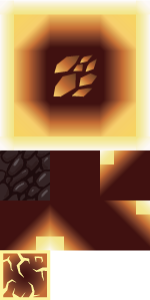
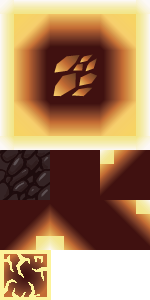
added animations

diff --git a/src/scenes/Play.js b/src/scenes/Play.js
@@ -22,10 +22,17 @@ class Play extends Phaser.Scene {
         this.load.image('greenKey', 'greenKey.png');
         this.load.image('blueKey', 'blueKey.png');
         this.load.image('powerUp', 'powerUp.png');
+        this.load.spritesheet('charRun', 'characterRun.png', {
+            frameWidth: 600, frameHeight: 600, startFrame: 0, endFrame: 7
+        });
+        this.load.spritesheet('charTower', 'characterTower.png', {
+            frameWidth: 600, frameHeight: 600, startFrame: 0, endFrame: 5
+        });
 
         //load the json images 
         this.load.image('tiles', 'rockSheetNew.png');
         this.load.tilemapTiledJSON("tilemapJSON", "levelOneNew.json");
+
 
     }
 
@@ -53,6 +60,7 @@ class Play extends Phaser.Scene {
         this.addBackgroundTileMap();
         this.addCrackedTiles();
         this.addCharacter();
+        this.addAnimation();
         this.addSprites();
         this.addDoor();
         this.addInstructions();
@@ -99,6 +107,18 @@ class Play extends Phaser.Scene {
         border.body.checkCollision.left = true;
         border.body.checkCollision.right = true;
         return border;
+    }
+    addAnimation(){
+        this.anims.create({
+            key: 'run',
+            frames: this.anims.generateFrameNumbers('charRun', { start: 0, end: 7, first: 0 }),
+            frameRate: 12
+        });
+        this.anims.create({
+            key: 'build',
+            frames: this.anims.generateFrameNumbers('charTower', { start: 0, end: 5, first: 0 }),
+            frameRate: 12
+        });
     }
 
     addBackgroundTileMap() {
@@ -386,6 +406,10 @@ class Play extends Phaser.Scene {
                 this.towers.clear(true,true);
                 this.currentTowers=0;
             }
+            
+            if(playerWalking){
+                this.player.anims.play('run', true);
+            }
         }
 
     }
@@ -443,6 +467,7 @@ class Play extends Phaser.Scene {
 
     buildTower() {
         if (!this.player.destroyed) {
+            this.player.anims.play('build');
             let tower = new Tower(this, this.player,"red");
             this.towers.add(tower);
             this.tower_sound.play();

diff --git a/src/prefabs/Player.js b/src/prefabs/Player.js
@@ -6,8 +6,8 @@ class Player extends Phaser.Physics.Arcade.Sprite {
         scene.add.existing(this);               // add to existing scene, displayList, updateList
         scene.physics.add.existing(this);       // add to physics system
         this.setCollideWorldBounds(true); 
-        this.setScale(0.1);
-        this.setMaxVelocity(300, 5000);
+        this.setScale(0.11);
+        this.setMaxVelocity(300, 4500);
         this.body.allowGravity=true;
         this.destroyed = false;
         this.setPushable(false);
